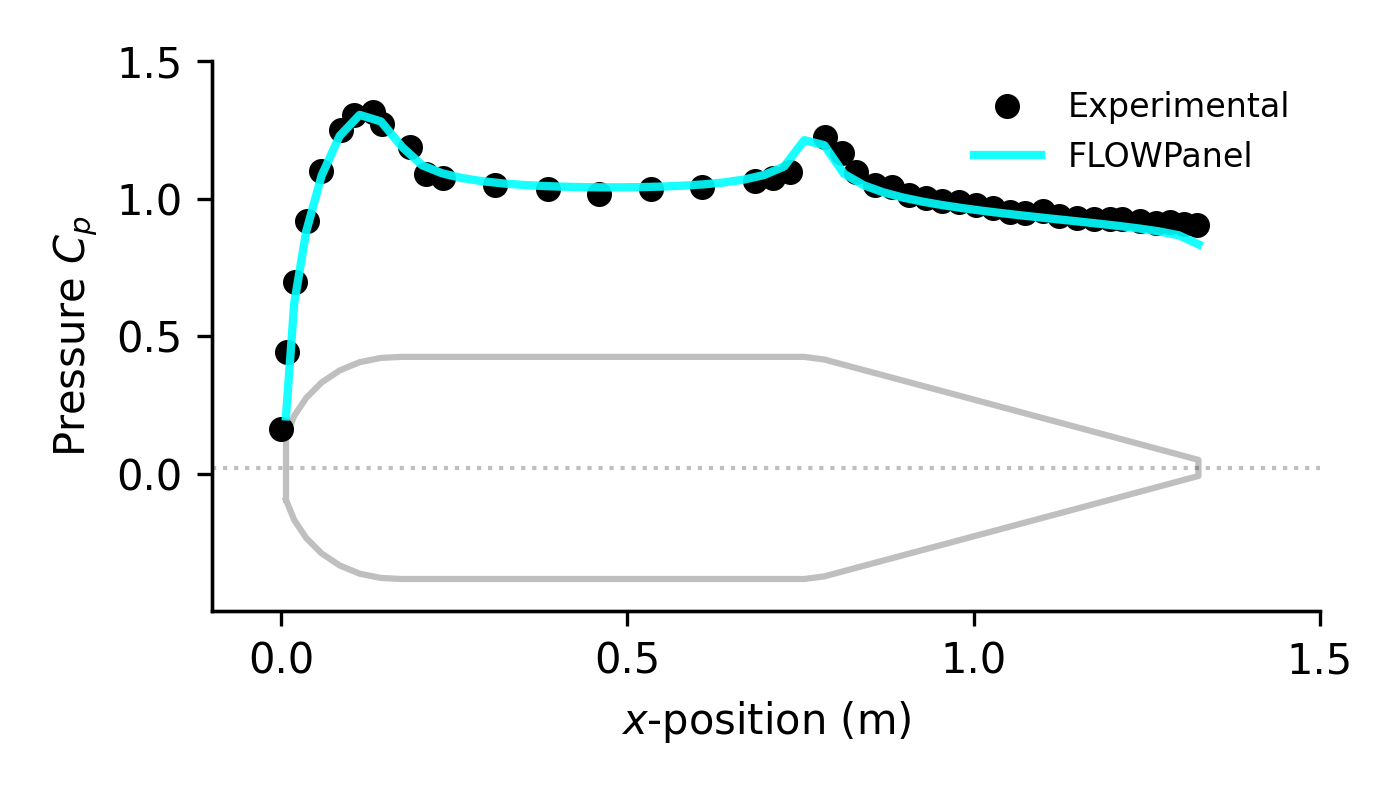
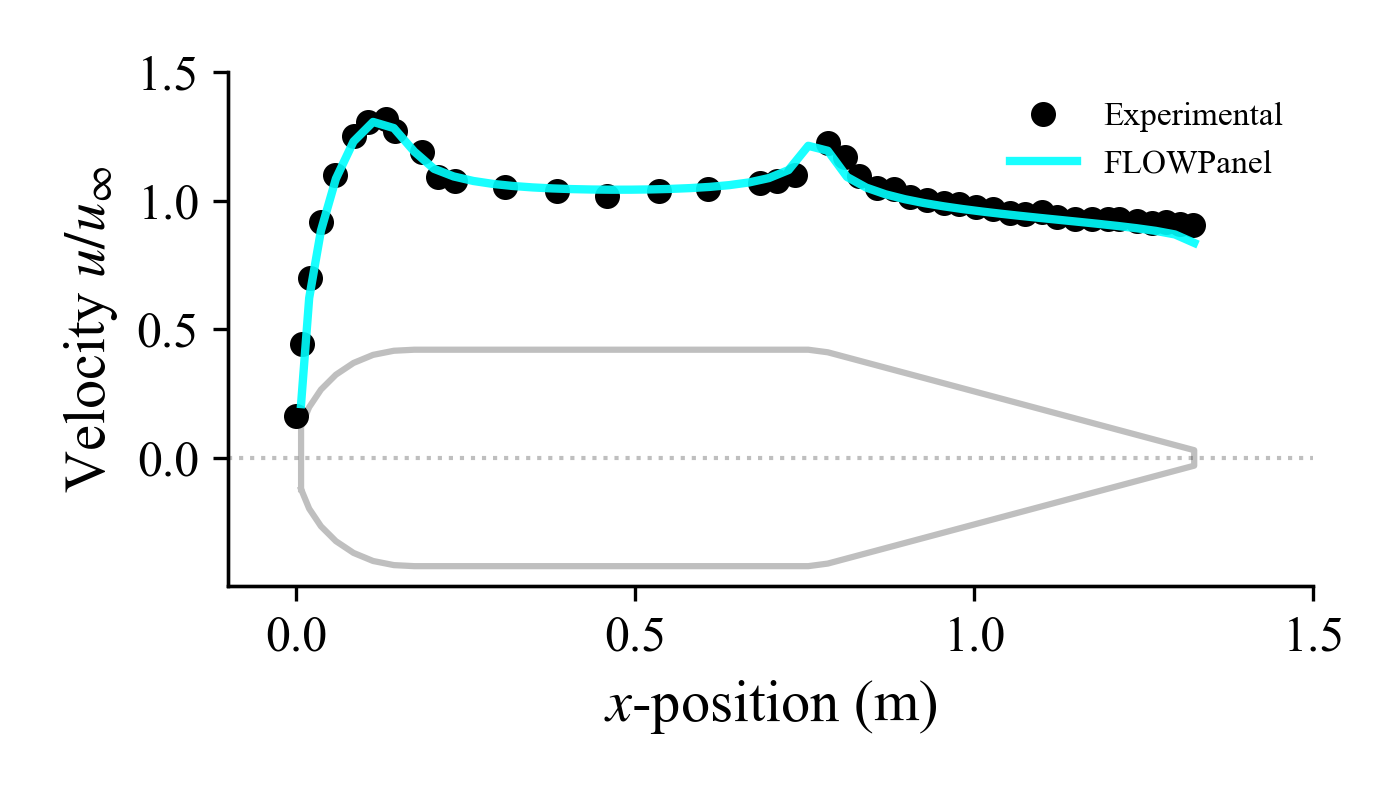
Add Ugradmu to centerbody example

Changed region(s): [[0.0308, 0.0602, 0.9843, 0.8421], [0.6767, 0.1203, 0.9227, 0.2406], [0.4306, 0.8421, 0.6767, 0.9323]]

diff --git a/docs/src/examples/duct-leastsquare.md b/docs/src/examples/duct-leastsquare.md
@@ -59,6 +59,8 @@ A body type `bodytype = pnl.RigidWakeBody{pnl.VortexRing}` corresponds to
 the original vortex-ring solver, while the least-square solver is called
 by declaring `bodytype = pnl.RigidWakeBody{pnl.VortexRing, 2}`.
 
+> **NOTE:** The prescribed panel can be manually set by the user through the optional arguments `elprescribe_index` and `elprescribe_value` of `FLOWPanel.solve`. If not set, the function defaults to `FLOWPanel.solve(body, Uinfs, Das, Dbs; elprescribe_index=1, elprescribe_value=0)`
+
 Even though both solvers lead to roughly the same flow field solution, the
 numerical noise of the ill-condition problem is evident when visualizing the
 potential field:

diff --git a/docs/src/examples/centerbody-vortexring.md b/docs/src/examples/centerbody-vortexring.md
@@ -47,6 +47,16 @@ println("Post processing...")
 Us = pnl.calcfield_U(body, body,
                             offset=0.08, characteristiclength=(args...)->R)
 
+# NOTE: Since the boundary integral equation of the potential flow has a
+#       discontinuity at the boundary, we need to add the gradient of the
+#       doublet strength to get an accurate surface velocity
+
+# Calculate surface velocity U_∇μ due to the gradient of the doublet strength
+UDeltaGamma = pnl.calcfield_Ugradmu(body)
+
+# Add both velocities together
+pnl.addfields(body, "Ugradmu", "U")
+
 # Calculate pressure coefficient
 Cps = pnl.calcfield_Cp(body, magVinf)
 
